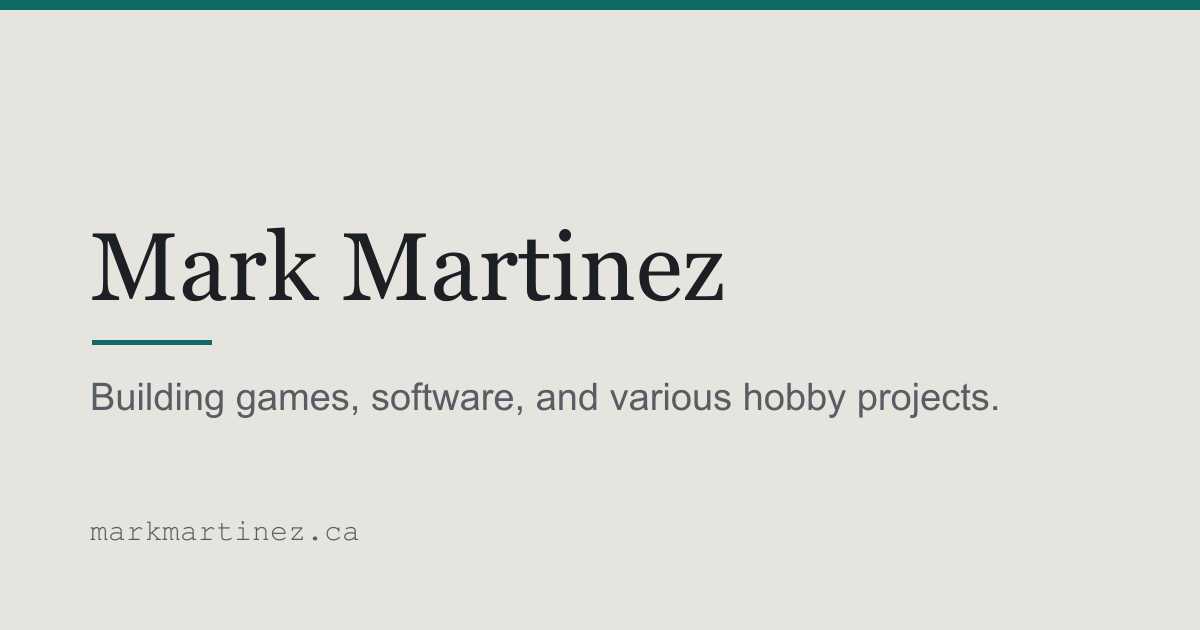
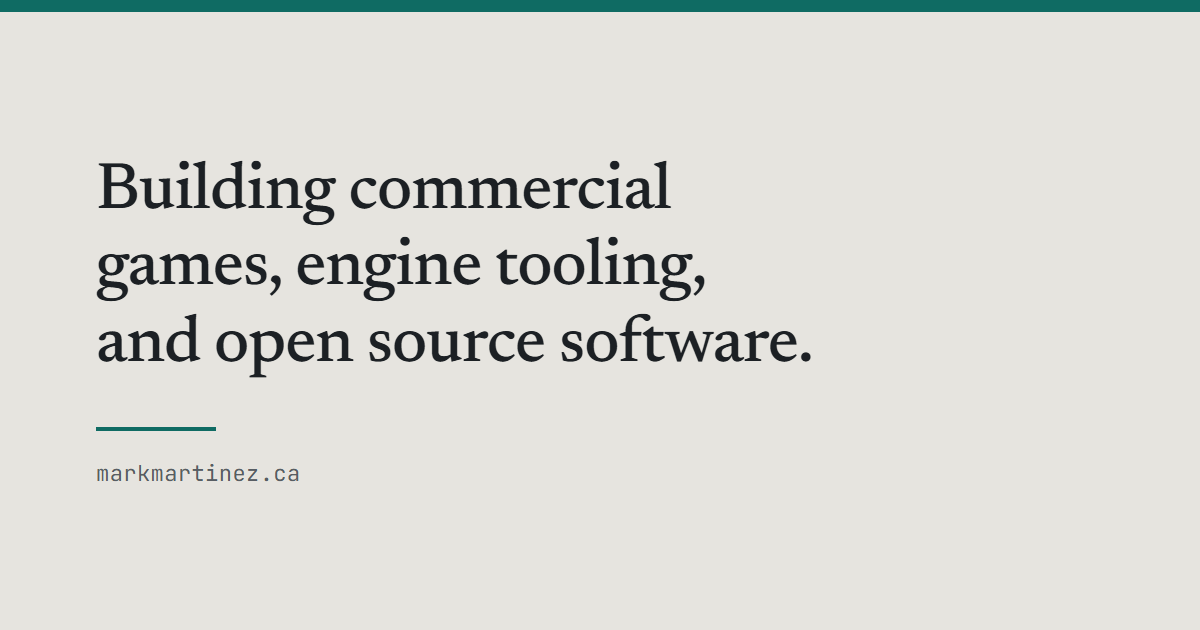
chore(site): update og image and fix description typo

diff --git a/src/site.ts b/src/site.ts
@@ -15,7 +15,7 @@ export const site = {
   email,
 
   description:
-    'Working on commercial games, engine tooling, and fun software..',
+    'Working on commercial games, engine tooling, and fun software.',
 
   hero: 'Working on commercial games, engine tooling, and fun software.',
 
